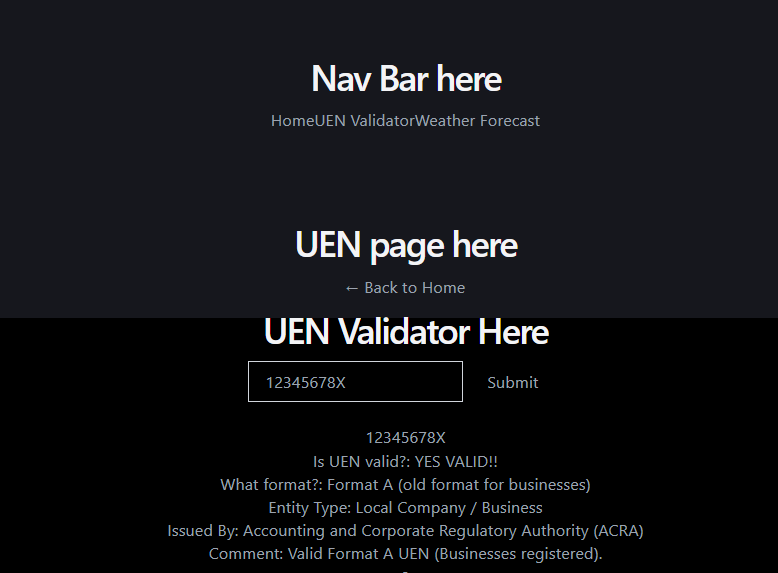
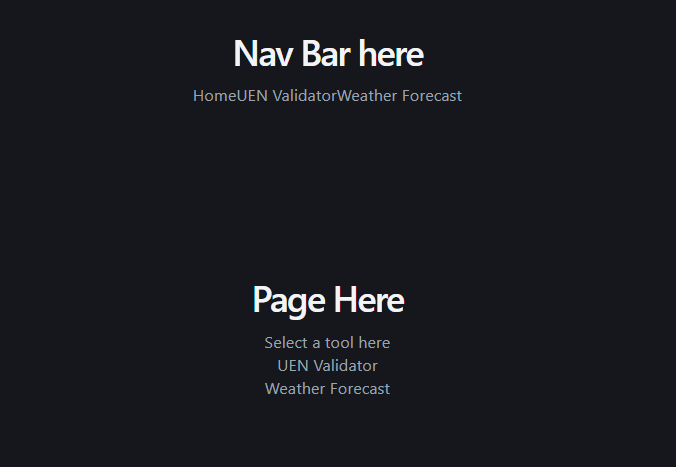
Improve UIUX
Improve Navbar
Improve Homepage
Improve UENpage
Improve UEN components

diff --git a/src/components/UENValidatorPanel.tsx b/src/components/UENValidatorPanel.tsx
@@ -3,64 +3,96 @@ import type { ValidationResult } from "../types/uen";
 import { validateUEN } from "../utils/uenValidator";
 
 const UENValidatorPanel = () => {
-  const [input, setInput] = useState("default");
+  const [input, setInput] = useState("");
   const [result, setResult] = useState<ValidationResult | null>(null);
 
-  const handleSubmit = (e: React.FormEvent) => {
+  const handleSubmit = (e: React.SubmitEvent) => {
     e.preventDefault();
-    const result = validateUEN(input);
-    setResult(result);
+    const validationResult = validateUEN(input.trim());
+    setResult(validationResult);
   };
 
   return (
-    <div className="bg-black">
-      <h1>UEN Validator Here</h1>
-      {/* INPUT */}
-      <form onSubmit={handleSubmit}>
+    <div className="space-y-4">
+      {/* Input Form */}
+      <form onSubmit={handleSubmit} className="flex gap-2">
         <input
           type="text"
           id="uen"
           value={input}
           onChange={(e) => setInput(e.target.value)}
-          placeholder="type valid UEN here..."
-          className="flex-1 px-4 py-2 border border-gray-300"
+          placeholder="e.g. T08LL0001A or 200001234E"
+          className="flex-1 px-3 py-2 border border-gray-300 rounded text-sm focus:outline-none focus:border-black bg-white text-gray-900"
         />
-        <button type="submit" className="px-6 py-2">
-          Submit
+        <button
+          type="submit"
+          className="px-5 py-2 bg-black text-white text-sm font-medium rounded hover:bg-gray-800 cursor-pointer"
+        >
+          Validate
         </button>
       </form>
-      <br />
-      {input}
-      <br />
-      {/* RESULT */}
+
+      {/* Result Panel */}
       {result && (
-        <div>
-          <p>
-            Is UEN valid?:{" "}
-            <span>{result.isValid ? "YES VALID!!" : "NO INVALID!!"}</span>
-          </p>
-          <p>
-            What format?: <span>{result.formatType}</span>
-          </p>
-          {result.metadata && (
-            <p>
-              Entity Type: <span>{result.metadata?.entityType || "N.A."}</span>
-              <br />
-              Issued By:{" "}
-              <span>{result.metadata?.issuanceAgency || "N.A."}</span>
-            </p>
-          )}
+        <div
+          className={`p-4 rounded border ${
+            result.isValid
+              ? "bg-gray-50 border-green-300 text-gray-900"
+              : "bg-gray-50 border-red-300 text-gray-900"
+          }`}
+        >
+          <div className="flex items-center justify-between mb-3 pb-2 border-b border-gray-200">
+            <span className="text-xs font-bold uppercase tracking-wider text-gray-500">
+              Validation Status
+            </span>
+            <span
+              className={`px-2 py-0.5 text-xs font-bold rounded ${
+                result.isValid
+                  ? "bg-green-100 text-green-800"
+                  : "bg-red-100 text-red-800"
+              }`}
+            >
+              {result.isValid ? "VALID UEN" : "INVALID UEN"}
+            </span>
+          </div>
 
-          <p>
-            Comment: <span>{result.message}</span>
-          </p>
-          {result.year && (
-            <p>
-              Incorporation Year: <span>{result.year || "N.A."}</span>
-            </p>
-          )}
+          <div className="space-y-1.5 text-sm">
+            <div className="flex justify-between">
+              <span className="text-gray-500">Format Type:</span>
+              <span className="font-medium">{result.formatType || "N.A."}</span>
+            </div>
 
-          <p>{result.length}</p>
+            {result.year && (
+              <div className="flex justify-between">
+                <span className="text-gray-500">Incorporation Year:</span>
+                <span className="font-medium">{result.year}</span>
+              </div>
+            )}
+
+            {result.metadata && (
+              <>
+                <div className="flex justify-between">
+                  <span className="text-gray-500">Entity Type:</span>
+                  <span className="font-medium">
+                    {result.metadata.entityType || "N.A."}
+                  </span>
+                </div>
+                <div className="flex justify-between">
+                  <span className="text-gray-500">Issuing Agency:</span>
+                  <span className="font-medium">
+                    {result.metadata.issuanceAgency || "N.A."}
+                  </span>
+                </div>
+              </>
+            )}
+
+            <div className="pt-2 mt-2 border-t border-gray-200">
+              <span className="text-gray-500 block mb-1">Remarks:</span>
+              <p className="text-gray-700 bg-white p-2 rounded border border-gray-200 text-xs">
+                {result.message}
+              </p>
+            </div>
+          </div>
         </div>
       )}
     </div>

diff --git a/src/App.tsx b/src/App.tsx
@@ -1,4 +1,4 @@
-import { Route, Routes } from "react-router-dom";
+import { Link, Route, Routes } from "react-router-dom";
 // import UENValidatorPanel from "./components/UENValidatorPanel";
 // import WeatherForecastPanel from "./components/WeatherForecastPanel";
 import HomePage from "./pages/HomePage";
@@ -7,18 +7,25 @@ import WeatherPage from "./pages/WeatherPage";
 
 export function App() {
   return (
-    <div>
-      <nav className="p-20">
-        <h1>Nav Bar here</h1>
-        <a href="/">Home</a>
-        <a href="/uen-validator">UEN Validator</a>
-        <a href="/weather-forecast">Weather Forecast</a>
+    <div className="min-h-screen bg-gray-50 text-black">
+      <nav className="border-b border-white-300 bg-gray-300 px-6 py-4">
+        <div className="flex items-center justify-between mx-auto max-w-4xl ">
+          <Link to="/" className="font-bold text-xl">
+            OneST Service
+          </Link>
+          <div className="flex space-x-6 text-m font-medium">
+            <Link to="/uen-validator">UEN Validator</Link>
+            <Link to="/weather-forecast">Weather Forecast</Link>
+          </div>
+        </div>
       </nav>
-      <Routes>
-        <Route path="/" element={<HomePage />} />
-        <Route path="/uen-validator" element={<UenPage />} />
-        <Route path="/weather-forecast" element={<WeatherPage />} />
-      </Routes>
+      <main className="max-w-4xl mx-auto px-6 py-8">
+        <Routes>
+          <Route path="/" element={<HomePage />} />
+          <Route path="/uen-validator" element={<UenPage />} />
+          <Route path="/weather-forecast" element={<WeatherPage />} />
+        </Routes>
+      </main>
     </div>
   );
 }

diff --git a/src/pages/HomePage.tsx b/src/pages/HomePage.tsx
@@ -1,19 +1,38 @@
-import react from "react";
 import { Link } from "react-router-dom";
 
 export function HomePage() {
   return (
-    <div className="p-20">
-      <h1>Page Here</h1>
-      <p>Select a tool here</p>
-      <ul>
-        <li>
-          <Link to="/uen-validator">UEN Validator</Link>
-        </li>
-        <li>
-          <Link to="/weather-forecast">Weather Forecast</Link>
-        </li>
-      </ul>
+    <div className="space-y-6">
+      <div>
+        <h1 className="text-3xl font-bold">Services Ultility</h1>
+        <p className="text-sm text-gray-500 mt-2">
+          Select a service below to get started.
+        </p>
+      </div>
+
+      <div className="grid grid-cols-1 gap-4">
+        <Link
+          to="/uen-validator"
+          className="p-5 bg-white border border-gray-200 rounded-lg hover:border-blue-500 "
+        >
+          <h2 className="font-semibold text-base mb-1">UEN Validator</h2>
+          <p className="text-sm text-gray-500">
+            Verify Singapore company and entity registration numbers.
+          </p>
+        </Link>
+
+        <Link
+          to="/weather-forecast"
+          className="p-5 bg-white border border-gray-200 rounded-lg hover:border-blue-500"
+        >
+          <h2 className="font-semibold text-base mb-1">
+            2-Hour Weather Forecast
+          </h2>
+          <p className="text-sm text-gray-500">
+            Check real-time NEA weather conditions across Singapore regions.
+          </p>
+        </Link>
+      </div>
     </div>
   );
 }

diff --git a/src/pages/WeatherPage.tsx b/src/pages/WeatherPage.tsx
@@ -1,13 +1,25 @@
-import React from "react";
 import { Link } from "react-router-dom";
 import WeatherForecastPanel from "../components/WeatherForecastPanel";
 
 export const WeatherPage = () => {
   return (
-    <div className="p-20">
-      <h1>Weather Page here</h1>
-      <Link to="/">Back to Home</Link>
-      <WeatherForecastPanel />
+    <div className="space-y-6">
+      <Link
+        to="/"
+        className="text-sm font-medium text-blue-600 hover:underline inline-block"
+      >
+        &larr; Back to Home
+      </Link>
+
+      <div>
+        <h1 className="text-3xl font-bold">Singapore Weather Forecast</h1>
+        <p className="text-sm text-gray-500 mt-2">
+          Real-time 2-hour NEA weather outlook.
+        </p>
+      </div>
+      <div className="bg-white border border-gray-200 rounded-lg p-6">
+        <WeatherForecastPanel />
+      </div>
     </div>
   );
 };

diff --git a/src/pages/UenPage.tsx b/src/pages/UenPage.tsx
@@ -1,13 +1,21 @@
-import React from "react";
 import { Link } from "react-router-dom";
 import UENValidatorPanel from "../components/UENValidatorPanel";
 
 export const UenPage = () => {
   return (
-    <div className="p20">
-      <h1>UEN page here</h1>
-      <Link to="/">&larr; Back to Home</Link>
-      <UENValidatorPanel />
+    <div className="space-y-6">
+      <Link to="/" className="text-sm font-medium text-blue-600">
+        &larr; Back to Home
+      </Link>
+      <div>
+        <h1 className="text-3xl font-bold">UEN Validator</h1>
+        <p className="text-sm text-gray-700 mt-2">
+          Verify entity number formats and issuing authorities.
+        </p>
+      </div>
+      <div className="bg-white border border-gray-200 rounded-lg p-6">
+        <UENValidatorPanel />
+      </div>
     </div>
   );
 };

diff --git a/src/index.css b/src/index.css
@@ -1,5 +1,5 @@
 @import "tailwindcss";
-
+/* 
 :root {
   --text: #6b6375;
   --text-h: #08060d;
@@ -110,4 +110,4 @@ code {
   line-height: 135%;
   padding: 4px 8px;
   background: var(--code-bg);
-}
+} */
